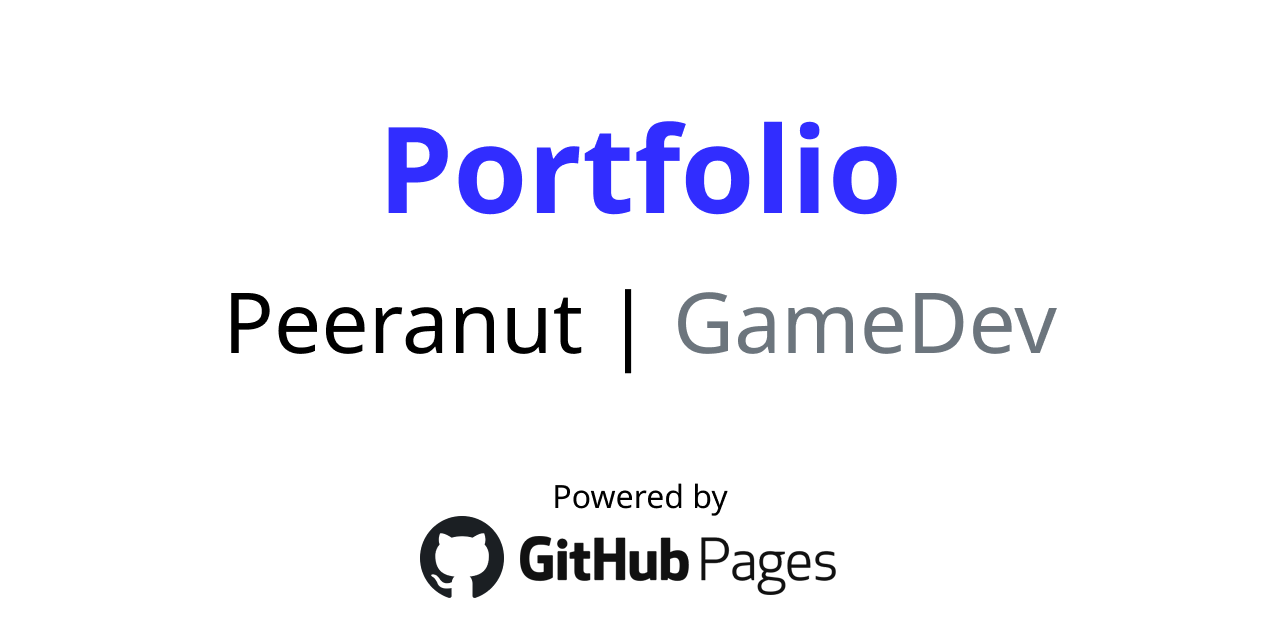
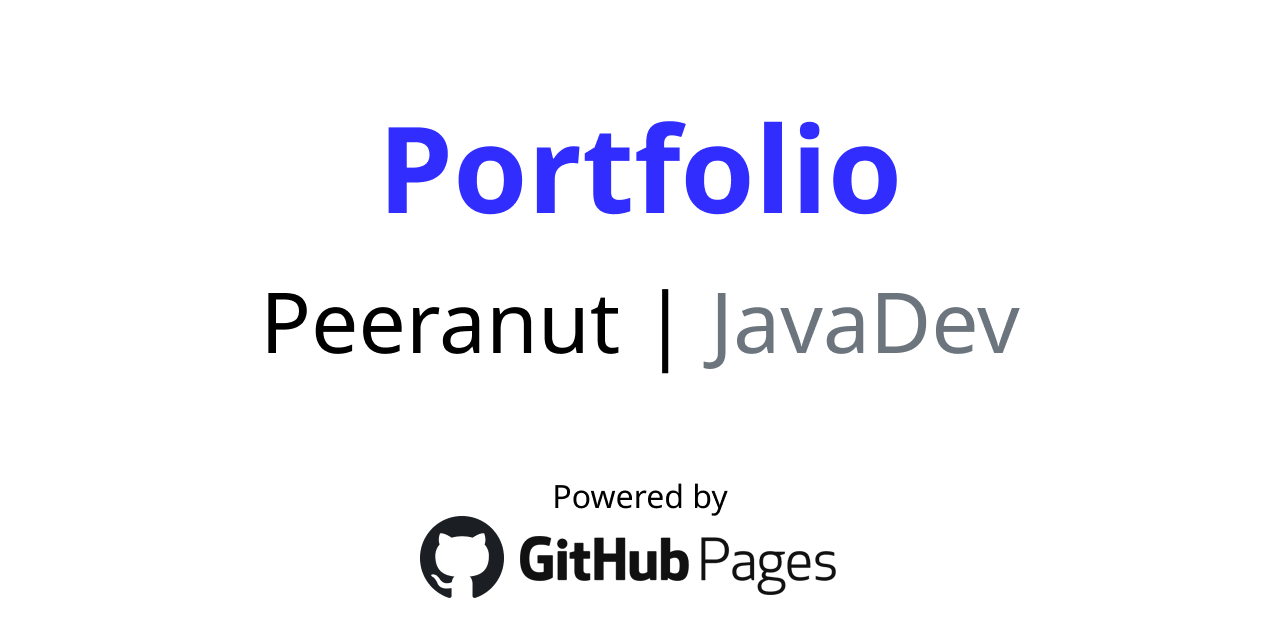
Change role to java developer

Changed region(s): [[0.1562, 0.4375, 0.8438, 0.5938]]

diff --git a/index.html b/index.html
@@ -19,14 +19,14 @@
     crossorigin="anonymous"></script>
 
   <!-- Primary Meta Tags -->
-  <title>Peeranut Remthungsakul - Game Programmer Portfolio</title>
-  <meta name="title" content="Peeranut Remthungsakul - Game Programmer Portfolio">
+  <title>Peeranut Remthungsakul - Programmer Portfolio</title>
+  <meta name="title" content="Peeranut Remthungsakul - Programmer Portfolio">
   <meta name="description" content="A portfolio of Peeranut Remthungsakul on GitHub Pages">
 
   <!-- Open Graph / Facebook -->
   <meta property="og:type" content="website">
   <meta property="og:url" content="https://metatags.io/">
-  <meta property="og:title" content="Peeranut Remthungsakul - Game Programmer Portfolio">
+  <meta property="og:title" content="Peeranut Remthungsakul - Programmer Portfolio">
   <meta property="og:description" content="A portfolio of Peeranut Remthungsakul on GitHub Pages">
   <meta property="og:image"
     content="img/social-media-preview.png">
@@ -34,7 +34,7 @@
   <!-- Twitter -->
   <meta property="twitter:card" content="summary_large_image">
   <meta property="twitter:url" content="https://metatags.io/">
-  <meta property="twitter:title" content="Peeranut Remthungsakul - Game Programmer Portfolio">
+  <meta property="twitter:title" content="Peeranut Remthungsakul - Programmer Portfolio">
   <meta property="twitter:description" content="A portfolio of Peeranut Remthungsakul on GitHub Pages">
   <meta property="twitter:image"
     content="img/social-media-preview.png">
@@ -46,7 +46,7 @@
   <div class="navbar navbar-expand-md navbar-light">
     <div class="container">
       <a class="navbar-brand" href="index.html">
-        Peeranut | <small class="text-muted">GameDev</small>
+        Peeranut | <small class="text-muted">JavaDev</small>
       </a>
 
       <button class="navbar-toggler" type="button" data-toggle="collapse" data-target="#collapsibleNavbar">
@@ -57,7 +57,7 @@
       <div class="collapse navbar-collapse" id="collapsibleNavbar">
         <ul class="navbar-nav ms-auto">
           <li class="nav-item p-2">
-            <a class="nav-link text-primary" href="index.html">Portfolio</a>
+            <a class="nav-link text-primary" href="index.html">Home</a>
           </li>
           <li class="nav-item p-2">
             <a class="nav-link" href="about.html">About Me</a>
@@ -74,20 +74,13 @@
   <div class="container">
     <!-- Some introduction on this page -->
     <h1 class="display-4 pt-5">Peeranut Remthungsakul</h1>
-    <h3 class="text-muted pb-4">Game Programmer</h3>
+    <h3 class="text-muted pb-4">Java Programmer</h3>
     <p class="lead">
-      Welcome to my portfolio! Here are some games and other stuff I've created to showcase my skills.
+      Welcome to my portfolio! Here are some stuff I've created to showcase my skills.
     </p>
 
-    <!-- Demo Reel -->
-    <h1 class="pt-5">Demo Reel</h1>
-    <div class="ratio ratio-16x9 my-4">
-      <iframe src="https://www.youtube.com/embed/Z_fwdnc0800?autoplay=0&mute=1" allowfullscreen>
-      </iframe>
-    </div>
-
     <!-- This is where I store my portfolios -->
-    <h1 class="pt-5">Game Projects</h1>
+    <h1 class="pt-5">Projects</h1>
     <div class="row row-cols-1 row-cols-lg-3 g-4 py-4">
       <div class="col">
         <a href="gmme.html" class="text-dark text-decoration-none">
@@ -171,7 +164,7 @@
 
       <div class="container">
         <div class="d-flex justify-content-center justify-content-md-end">
-          <a class="nav-link" href="index.html">Portfolio</a>
+          <a class="nav-link" href="index.html">Home</a>
           <a class="nav-link" href="about.html">About Me</a>
           <a class="nav-link" href="contact.html">Contact</a>
         </div>

diff --git a/about.html b/about.html
@@ -25,7 +25,7 @@
   <div class="navbar navbar-expand-md navbar-light">
     <div class="container">
       <a class="navbar-brand" href="index.html">
-        Peeranut | <small class="text-muted">GameDev</small>
+        Peeranut | <small class="text-muted">JavaDev</small>
       </a>
 
       <button class="navbar-toggler" type="button" data-toggle="collapse" data-target="#collapsibleNavbar">
@@ -36,7 +36,7 @@
       <div class="collapse navbar-collapse" id="collapsibleNavbar">
         <ul class="navbar-nav ms-auto">
           <li class="nav-item p-2">
-            <a class="nav-link" href="index.html">Portfolio</a>
+            <a class="nav-link" href="index.html">Home</a>
           </li>
           <li class="nav-item p-2">
             <a class="nav-link text-primary" href="about.html">About Me</a>
@@ -128,7 +128,7 @@
 
       <div class="container">
         <div class="d-flex justify-content-center justify-content-md-end">
-          <a class="nav-link" href="index.html">Portfolio</a>
+          <a class="nav-link" href="index.html">Home</a>
           <a class="nav-link" href="about.html">About Me</a>
           <a class="nav-link" href="contact.html">Contact</a>
         </div>

diff --git a/contact.html b/contact.html
@@ -25,7 +25,7 @@
   <div class="navbar navbar-expand-md navbar-light">
     <div class="container">
       <a class="navbar-brand" href="index.html">
-        Peeranut | <small class="text-muted">GameDev</small>
+        Peeranut | <small class="text-muted">JavaDev</small>
       </a>
 
       <button class="navbar-toggler" type="button" data-toggle="collapse" data-target="#collapsibleNavbar">
@@ -36,7 +36,7 @@
       <div class="collapse navbar-collapse" id="collapsibleNavbar">
         <ul class="navbar-nav ms-auto">
           <li class="nav-item p-2">
-            <a class="nav-link" href="index.html">Portfolio</a>
+            <a class="nav-link" href="index.html">Home</a>
           </li>
           <li class="nav-item p-2">
             <a class="nav-link" href="about.html">About Me</a>
@@ -100,7 +100,7 @@
 
       <div class="container">
         <div class="d-flex justify-content-center justify-content-md-end">
-          <a class="nav-link" href="index.html">Portfolio</a>
+          <a class="nav-link" href="index.html">Home</a>
           <a class="nav-link" href="about.html">About Me</a>
           <a class="nav-link" href="contact.html">Contact</a>
         </div>

diff --git a/galax.html b/galax.html
@@ -25,7 +25,7 @@
   <div class="navbar navbar-expand-md navbar-light">
     <div class="container">
       <a class="navbar-brand" href="index.html">
-        Peeranut | <small class="text-muted">GameDev</small>
+        Peeranut | <small class="text-muted">JavaDev</small>
       </a>
 
       <button class="navbar-toggler" type="button" data-toggle="collapse" data-target="#collapsibleNavbar">
@@ -36,7 +36,7 @@
       <div class="collapse navbar-collapse" id="collapsibleNavbar">
         <ul class="navbar-nav ms-auto">
           <li class="nav-item p-2">
-            <a class="nav-link" href="index.html">Portfolio</a>
+            <a class="nav-link" href="index.html">Home</a>
           </li>
           <li class="nav-item p-2">
             <a class="nav-link" href="about.html">About Me</a>
@@ -209,7 +209,7 @@
 
       <div class="container">
         <div class="d-flex justify-content-center justify-content-md-end">
-          <a class="nav-link" href="index.html">Portfolio</a>
+          <a class="nav-link" href="index.html">Home</a>
           <a class="nav-link" href="about.html">About Me</a>
           <a class="nav-link" href="contact.html">Contact</a>
         </div>

diff --git a/gmme.html b/gmme.html
@@ -25,7 +25,7 @@
   <div class="navbar navbar-expand-md navbar-light">
     <div class="container">
       <a class="navbar-brand" href="index.html">
-        Peeranut | <small class="text-muted">GameDev</small>
+        Peeranut | <small class="text-muted">JavaDev</small>
       </a>
 
       <button class="navbar-toggler" type="button" data-toggle="collapse" data-target="#collapsibleNavbar">
@@ -36,7 +36,7 @@
       <div class="collapse navbar-collapse" id="collapsibleNavbar">
         <ul class="navbar-nav ms-auto">
           <li class="nav-item p-2">
-            <a class="nav-link" href="index.html">Portfolio</a>
+            <a class="nav-link" href="index.html">Home</a>
           </li>
           <li class="nav-item p-2">
             <a class="nav-link" href="about.html">About Me</a>
@@ -217,7 +217,7 @@
 
       <div class="container">
         <div class="d-flex justify-content-center justify-content-md-end">
-          <a class="nav-link" href="index.html">Portfolio</a>
+          <a class="nav-link" href="index.html">Home</a>
           <a class="nav-link" href="about.html">About Me</a>
           <a class="nav-link" href="contact.html">Contact</a>
         </div>

diff --git a/mathgical.html b/mathgical.html
@@ -25,7 +25,7 @@
   <div class="navbar navbar-expand-md navbar-light">
     <div class="container">
       <a class="navbar-brand" href="index.html">
-        Peeranut | <small class="text-muted">GameDev</small>
+        Peeranut | <small class="text-muted">JavaDev</small>
       </a>
 
       <button class="navbar-toggler" type="button" data-toggle="collapse" data-target="#collapsibleNavbar">
@@ -36,7 +36,7 @@
       <div class="collapse navbar-collapse" id="collapsibleNavbar">
         <ul class="navbar-nav ms-auto">
           <li class="nav-item p-2">
-            <a class="nav-link" href="index.html">Portfolio</a>
+            <a class="nav-link" href="index.html">Home</a>
           </li>
           <li class="nav-item p-2">
             <a class="nav-link" href="about.html">About Me</a>
@@ -221,7 +221,7 @@
 
       <div class="container">
         <div class="d-flex justify-content-center justify-content-md-end">
-          <a class="nav-link" href="index.html">Portfolio</a>
+          <a class="nav-link" href="index.html">Home</a>
           <a class="nav-link" href="about.html">About Me</a>
           <a class="nav-link" href="contact.html">Contact</a>
         </div>
